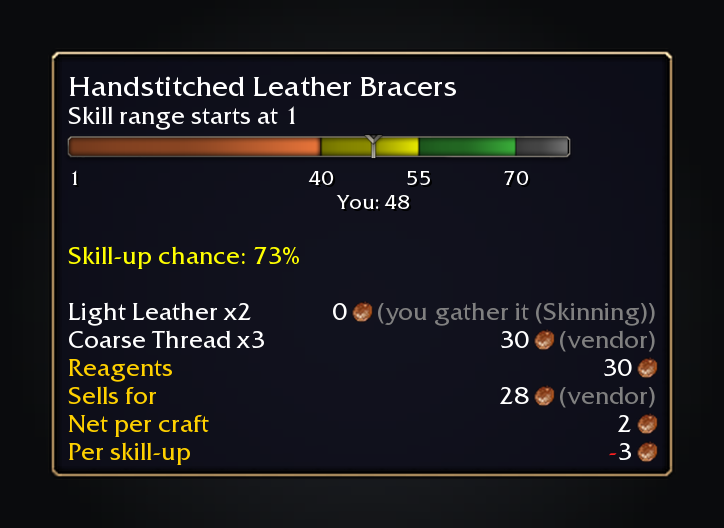
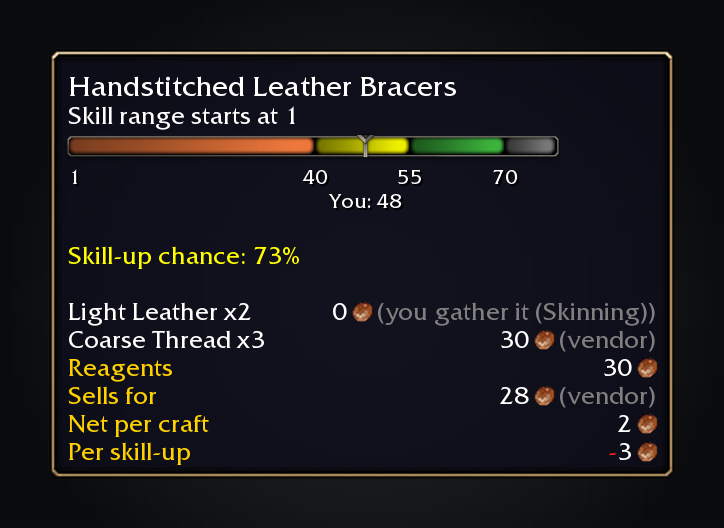
fix: draw the skill bar bands at their native height (#338)
## Summary
The difficulty bands drew common-stat-bar-white (240x15) squashed to
about 10 high. They now draw UI-HUD-CoolDownManager-Bar at its native 10
high, varying only in width, and the professions bar art scales
uniformly by 10/18 to fit the tooltip.

Ships as 1.0.21. Follows the owner's no-stretch rule (forever-core
WFA-27).

## Test plan
- [x] Gate locally, without the Sloppatrol step
- [x] Rendered before/after compared
- [ ] In game: `/reload` and check the bars

🤖 Generated with [Claude Code](https://claude.com/claude-code)

https://claude.ai/code/session_01UkMWrwndqHjjTAo7oE9YTP

Changed region(s): [[0.0912, 0.2424, 0.7901, 0.3939]]

diff --git a/tools/screenshots.py b/tools/screenshots.py
@@ -1280,8 +1280,9 @@ def recipe_tooltip_lines(ui, recipe_id):
 
 
 BAR_WIDTH, MIN_LABEL_GAP = 250, 18  # UI/Tooltip.lua
-BAR_SCALE = BAR_WIDTH / 439
+BAR_SCALE = 10 / 18
 BAR_HEIGHT = 18 * BAR_SCALE
+BAR_FILL_WIDTH = 439 * BAR_SCALE
 BAR_FRAME_HEIGHT = BAR_HEIGHT + 30
 BAR_PADDING = 4  # UI/Tooltip.lua BAR_PADDING
 
@@ -1302,9 +1303,9 @@ def skill_bar(ui, t, skill):
     lo, hi = t[0], t[3] + max(3, math.floor((t[3] - t[0]) * 0.12 + 0.5))
 
     def x_of(value):
-        return (min(max(value, lo), hi) - lo) / (hi - lo) * BAR_WIDTH
+        return (min(max(value, lo), hi) - lo) / (hi - lo) * BAR_FILL_WIDTH
 
-    band = ui.atlas("common-stat-bar-white")
+    band = ui.atlas("UI-HUD-CoolDownManager-Bar")
     edges = [t[0], t[1], t[2], t[3], hi]
     for i, color in enumerate(("orange", "yellow", "green", "grey")):
         left, right = x_of(edges[i]), x_of(edges[i + 1])

diff --git a/CHANGELOG.md b/CHANGELOG.md
@@ -12,6 +12,9 @@ optional `### For addon authors` subsection after a version's player bullets.
 
 ## [Unreleased]
 
+## [1.0.21] - 2026-11-06
+- **The skill bar's difficulty bands are drawn at the bar art's native height instead of squashed.** The tooltip and details bar pulled a 240 by 15 fill down to about 10.25 high, which flattened the art; the bands now use the client's 124 by 10 cooldown manager fill, keeping its height and varying only its width with each band.
+
 ## [1.0.20] - 2026-11-06
 - **The skill bar and the selected gear slot use the game's current art.** The tooltip and details bar filled its difficulty bands with a texture the client has carried since before Legion, and a selected gear slot washed the icon with the old check highlight. The bands now use the fill the game's own progress bars use, keeping their colours, and a selected slot shows the professions window's gold glow, so the icon underneath stays readable.
 
